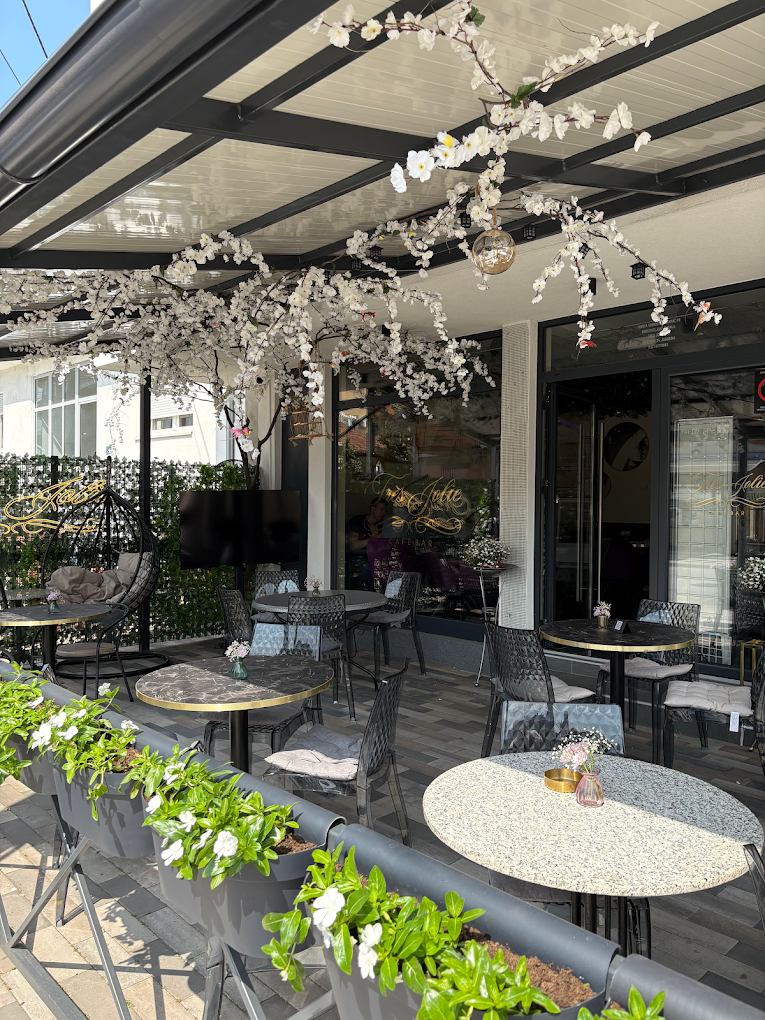
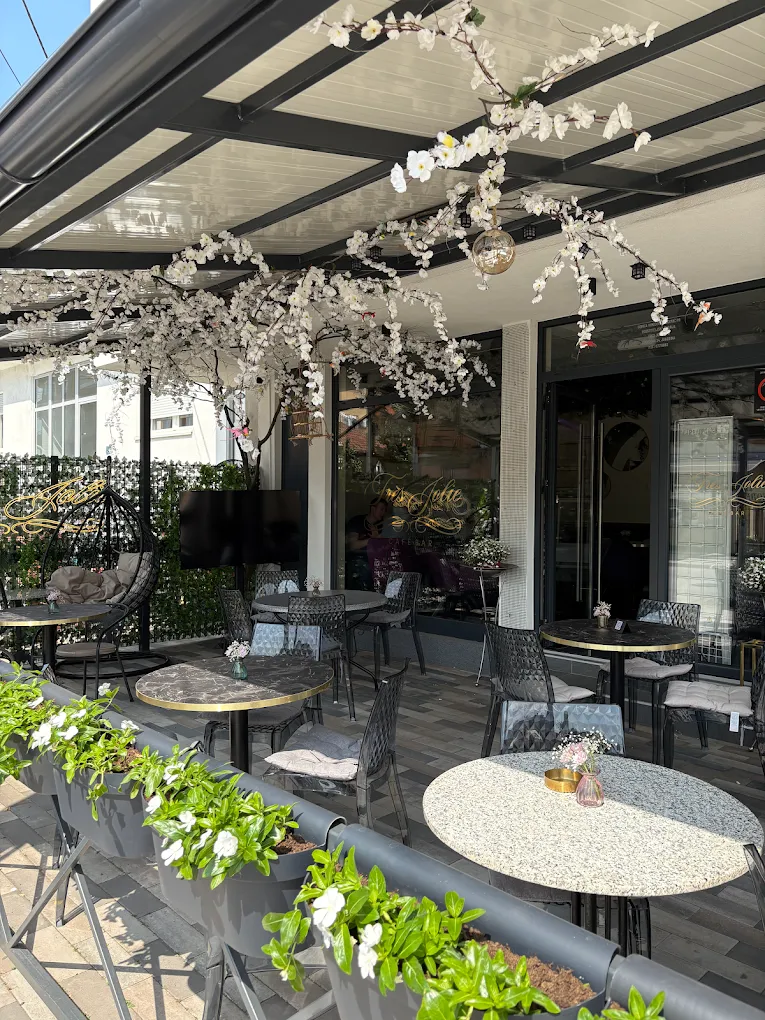
underline

diff --git a/src/components/AboutUs.vue b/src/components/AboutUs.vue
@@ -84,7 +84,7 @@ import { IconArrowUpRight, IconChefHat, IconLeaf } from "@tabler/icons-vue";
         <!-- Link -->
         <RouterLink
           to="/o-nama"
-          class="group mt-9 inline-flex items-center gap-2 text-sm font-semibold text-gray-900 transition-colors hover:text-gold"
+          class="group mt-9 inline-flex items-center gap-2 text-md md:text-sm font-semibold text-gray-900 transition-colors hover:text-gold underline"
         >
           Rezervišite sto
 

diff --git a/src/components/GoogleSection.vue b/src/components/GoogleSection.vue
@@ -112,7 +112,7 @@ import {
             href="https://www.google.com/maps/search/?api=1&query=Pariska+24+Beograd"
             target="_blank"
             rel="noopener noreferrer"
-            class="group mt-9 inline-flex items-center gap-2 text-sm font-semibold text-gray-900"
+            class="group mt-9 inline-flex items-center gap-2 text-sm font-semibold text-gray-900 underline transition-colors hover:text-gold"
           >
             Otvori u Google Maps
 

diff --git a/src/components/FeaturedDishes.vue b/src/components/FeaturedDishes.vue
@@ -97,7 +97,7 @@ const dishes = [
 
         <RouterLink
           to="/meni"
-          class="group inline-flex shrink-0 items-center gap-2 text-sm font-semibold text-gray-900 transition-colors hover:text-[#B8951F]"
+          class="group inline-flex shrink-0 items-center gap-2 text-md md:text-sm font-semibold text-gray-900 transition-colors hover:text-gold underline"
         >
           Pogledaj ceo meni
 
